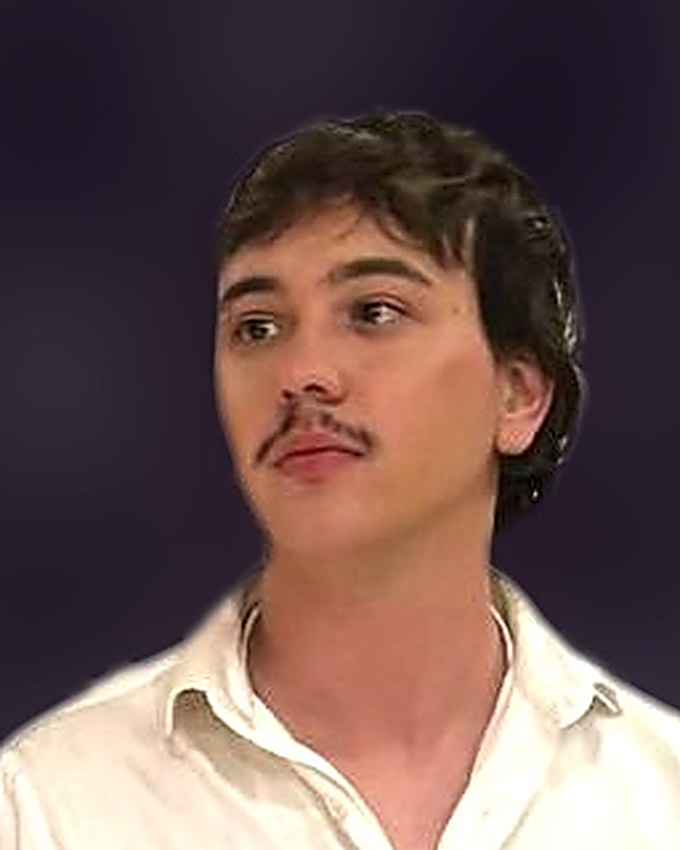
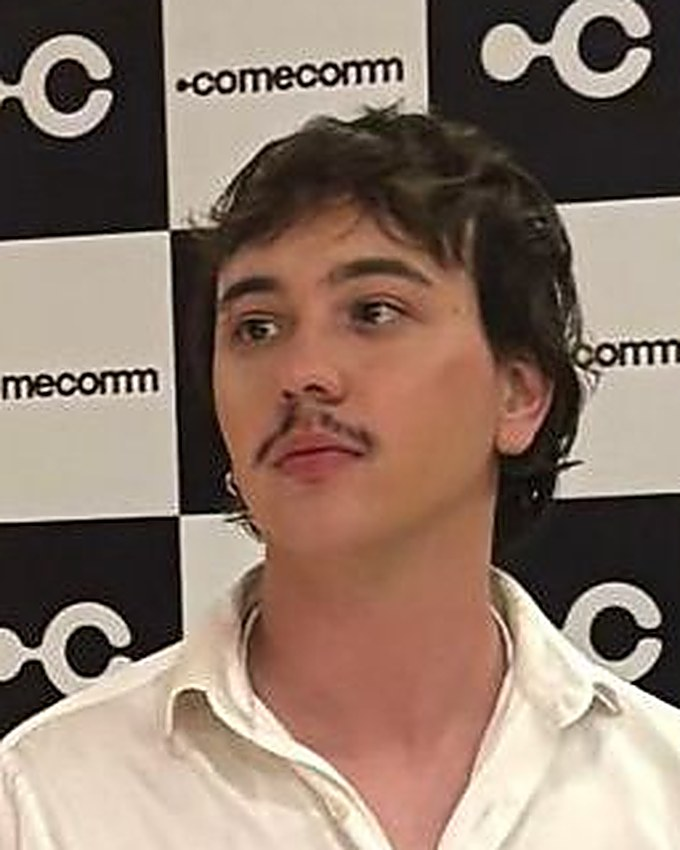
Devolve o fundo original das fotos e passa o movimento pro layout
O tratamento anterior desfocava e escurecia o fundo das três fotos pra
unificá-las. Não agradou: as fotos voltam como saíram da câmera, e quem
passa a dar dinamismo é o layout.

Fotos: só recorte, escala e nitidez. Olhos a 38% da altura e cabeça em
~46-56% do quadro nas três, então a escala continua casada mesmo com
cenários diferentes. Nada de desfoque, mistura de cor ou ajuste de brilho.

Movimento:

- RetratoTime (novo): a foto é 22% mais alta que a moldura e escorrega
  dentro dela conforme a página rola. A folga de 11% pra cada lado cobre o
  deslocamento máximo de 9,8%, então nunca abre buraco. Passa por uma mola
  pra não grudar ponto a ponto no scroll, e respeita prefers-reduced-motion.
- Degrau nas colunas: descendo no Quem somos, subindo no hero. É transform,
  não margem — não mexe na altura da linha.
- Hover: zoom de 5% na foto e a borda do cartão acende em violeta.
- Número 01/02/03 num chip com fundo próprio: as fotos têm fundo claro e
  escuro, e mix-blend sumia em cima do claro.

Medido: 12,1 telas no celular, 63 KB de foto na primeira tela, 107 KB no
total. Paralaxe verificada no navegador (22px de deslocamento), imagem
cobrindo a moldura nas três posições. Build limpo.

Claude-Session: https://claude.ai/code/session_013MHVSDBgg9FKWtKmTCT6uj

diff --git a/agencia/src/components/About.tsx b/agencia/src/components/About.tsx
@@ -1,12 +1,16 @@
 import { Reveal } from "./Reveal";
+import { RetratoTime } from "./RetratoTime";
 import { TIME } from "../data/content";
+
+/* Escalonamento no desktop: as três colunas descem em degrau em vez de
+   ficarem alinhadas numa régua. É transform, não margem — não mexe na
+   altura da linha, então nenhum cartão fica com sobra embaixo. */
+const DEGRAU = ["md:translate-y-0", "md:translate-y-8", "md:translate-y-16"];
 
 export function About() {
   return (
     <section id="quem-somos" className="relative border-y border-white/5 bg-surface/40 py-16 sm:py-28">
       <div className="mx-auto max-w-6xl px-5">
-        {/* Texto no topo e as pessoas embaixo: com três blocos, a coluna
-            lateral que servia pra dois viraria uma pilha comprida. */}
         <Reveal className="max-w-2xl">
           <p className="text-xs font-bold uppercase tracking-widest text-blue-400">Quem somos</p>
           <h2 className="mt-3 font-display text-3xl font-extrabold tracking-tight sm:text-4xl">
@@ -20,37 +24,38 @@ export function About() {
           </p>
         </Reveal>
 
-        {/* No celular vira carrossel. Empilhados, três cartões com foto
-            grande somavam quase três telas só de time; deslizando, as fotos
-            continuam grandes e a seção cabe em uma. */}
-        <div className="mt-12 flex snap-x snap-mandatory gap-5 overflow-x-auto pb-4 [-ms-overflow-style:none] [scrollbar-width:none] md:mt-14 md:grid md:grid-cols-3 md:gap-6 md:overflow-visible md:pb-0 [&::-webkit-scrollbar]:hidden">
+        {/* No celular vira carrossel. Empilhados, três cartões com foto grande
+            somavam quase três telas só de time; deslizando, as fotos continuam
+            grandes e a seção cabe em uma. */}
+        <div className="mt-12 flex snap-x snap-mandatory gap-5 overflow-x-auto pb-4 [-ms-overflow-style:none] [scrollbar-width:none] md:mt-14 md:grid md:grid-cols-3 md:gap-6 md:overflow-visible md:pb-20 [&::-webkit-scrollbar]:hidden">
           {TIME.map((pessoa, i) => (
             <Reveal
               key={pessoa.nome}
               delay={0.08 + i * 0.07}
-              className="h-full w-[85%] shrink-0 snap-center sm:w-[60%] md:w-auto"
+              className={`h-full w-[85%] shrink-0 snap-center sm:w-[60%] md:w-auto ${DEGRAU[i]}`}
             >
-              <div className="group flex h-full flex-col overflow-hidden rounded-3xl border border-white/[0.08] bg-surface transition-colors hover:border-violet-400/40">
-                {/* A foto é o cartão. Nome e papel vão por cima dela, no
-                    degradê, pra não empurrar a bio pra fora da tela. O fundo
-                    das três já foi desfocado e puxado pro tom do site na
-                    exportação: elas vieram de câmeras e cenários diferentes e
-                    precisavam ler como um conjunto. */}
-                <div className="relative aspect-[4/5] overflow-hidden bg-surface-2">
-                  <img
+              <div className="group flex h-full flex-col overflow-hidden rounded-3xl border border-white/[0.08] bg-surface transition-colors duration-300 hover:border-violet-400/40">
+                <div className="relative">
+                  <RetratoTime
                     src={pessoa.foto}
                     alt={`Retrato de ${pessoa.nome}`}
-                    width={680}
-                    height={850}
-                    loading="lazy"
-                    decoding="async"
-                    className="h-full w-full object-cover transition-transform duration-500 group-hover:scale-[1.04]"
+                    intensidade={8}
+                    className="aspect-[4/5]"
                   />
-                  <div className="absolute inset-x-0 bottom-0 bg-gradient-to-t from-ink via-ink/80 to-transparent px-5 pb-5 pt-20">
+
+                  {/* Chip próprio, não texto solto com mix-blend: as fotos têm
+                      fundo claro e escuro, e o número precisa ler nos dois. */}
+                  <span className="pointer-events-none absolute left-4 top-4 rounded-full bg-ink/60 px-2.5 py-1 font-display text-[11px] font-bold text-white/80 backdrop-blur-sm">
+                    {String(i + 1).padStart(2, "0")}
+                  </span>
+
+                  {/* O degradê nasce do próprio fundo do site, então o nome
+                      fica legível em cima de qualquer foto. */}
+                  <div className="pointer-events-none absolute inset-x-0 bottom-0 bg-gradient-to-t from-ink via-ink/85 to-transparent px-5 pb-5 pt-20">
                     <p className="font-display text-xl font-extrabold leading-tight tracking-tight text-white sm:text-2xl">
                       {pessoa.nome}
                     </p>
-                    <p className="mt-1.5 text-xs font-semibold leading-snug text-violet-300">
+                    <p className="mt-1.5 text-xs font-semibold leading-snug text-violet-300 transition-colors duration-300 group-hover:text-violet-200">
                       {pessoa.papel}
                     </p>
                   </div>

diff --git a/agencia/src/components/FaixaTime.tsx b/agencia/src/components/FaixaTime.tsx
@@ -1,4 +1,9 @@
+import { RetratoTime } from "./RetratoTime";
 import { TIME } from "../data/content";
+
+/* Degrau também aqui, mas ao contrário do Quem somos: sobe da esquerda pra
+   direita. Uma fileira de três retângulos alinhados fica parada demais. */
+const DEGRAU = ["translate-y-3", "translate-y-1.5", "translate-y-0"];
 
 /**
  * Rosto, nome e profissão logo no primeiro scroll.
@@ -6,30 +11,22 @@ import { TIME } from "../data/content";
  * Quem chega no site não sabe se está falando com uma empresa de verdade ou
  * com um template. Ver três pessoas com nome e profissão resolve isso antes
  * de qualquer texto — e é o tipo de prova que um concorrente não copia.
- *
- * Retrato 4:5, não avatar redondo de 48px: um selo pequeno some no meio do
- * hero e não convence ninguém. Aqui a foto é grande o bastante pra você
- * reconhecer a pessoa se cruzar com ela na rua.
  */
 export function FaixaTime() {
   return (
     <div className="mt-9 border-t border-white/[0.08] pt-6 lg:mt-10">
       <p className="text-[10px] font-bold uppercase tracking-widest text-white/35">Quem faz</p>
 
-      <ul className="mt-4 grid grid-cols-3 gap-2.5 sm:gap-4">
-        {TIME.map((pessoa) => (
-          <li key={pessoa.nome} className="group">
-            <div className="relative overflow-hidden rounded-2xl border border-white/[0.08] bg-surface-2">
-              <img
-                src={pessoa.foto}
-                alt={`Foto de ${pessoa.nome}`}
-                width={680}
-                height={850}
-                loading="eager"
-                decoding="async"
-                className="aspect-[4/5] w-full object-cover transition-transform duration-500 group-hover:scale-[1.04]"
-              />
-            </div>
+      <ul className="mt-4 grid grid-cols-3 items-end gap-2.5 sm:gap-4">
+        {TIME.map((pessoa, i) => (
+          <li key={pessoa.nome} className={`group ${DEGRAU[i]}`}>
+            <RetratoTime
+              src={pessoa.foto}
+              alt={`Foto de ${pessoa.nome}`}
+              intensidade={5}
+              prioridade
+              className="aspect-[4/5] rounded-2xl border border-white/[0.08]"
+            />
             <p className="mt-2.5 text-xs font-bold leading-tight text-white sm:text-sm">
               {pessoa.nome}
             </p>

diff --git a/agencia/src/components/RetratoTime.tsx b/agencia/src/components/RetratoTime.tsx
@@ -1,0 +1,53 @@
+import { useRef } from "react";
+import { motion, useReducedMotion, useScroll, useSpring, useTransform } from "framer-motion";
+
+interface Props {
+  src: string;
+  alt: string;
+  /** Quanto a foto desliza dentro da moldura, em % da própria altura. */
+  intensidade?: number;
+  prioridade?: boolean;
+  className?: string;
+}
+
+/**
+ * Retrato com paralaxe de rolagem.
+ *
+ * A foto é 22% mais alta que a moldura e escorrega dentro dela conforme a
+ * página rola. O movimento é o que dá vida — as fotos são de celular, em
+ * cenários diferentes, e ficar paradas num grid deixava a seção estática.
+ *
+ * A folga vertical é o que permite o deslocamento sem mostrar buraco: a
+ * imagem nunca sai de dentro da moldura porque só 22% dela sobra.
+ */
+export function RetratoTime({ src, alt, intensidade = 8, prioridade = false, className = "" }: Props) {
+  const ref = useRef<HTMLDivElement>(null);
+  const semMovimento = useReducedMotion();
+
+  const { scrollYProgress } = useScroll({
+    target: ref,
+    offset: ["start end", "end start"],
+  });
+
+  // A mola tira o "grude" do scroll: sem ela o movimento acompanha o dedo
+  // ponto a ponto e parece travado.
+  const suave = useSpring(scrollYProgress, { stiffness: 120, damping: 30, restDelta: 0.001 });
+  const y = useTransform(suave, [0, 1], [`-${intensidade}%`, `${intensidade}%`]);
+
+  return (
+    // top -11% centra a sobra: 11% de folga pra cada lado, e o deslocamento
+    // máximo (8% de 122% = 9,8% da moldura) cabe dentro dela.
+    <div ref={ref} className={`relative overflow-hidden bg-surface-2 ${className}`}>
+      <motion.img
+        src={src}
+        alt={alt}
+        width={680}
+        height={850}
+        loading={prioridade ? "eager" : "lazy"}
+        decoding="async"
+        style={semMovimento ? undefined : { y }}
+        className="absolute left-0 top-[-11%] h-[122%] w-full object-cover transition-transform duration-700 group-hover:scale-[1.05]"
+      />
+    </div>
+  );
+}
